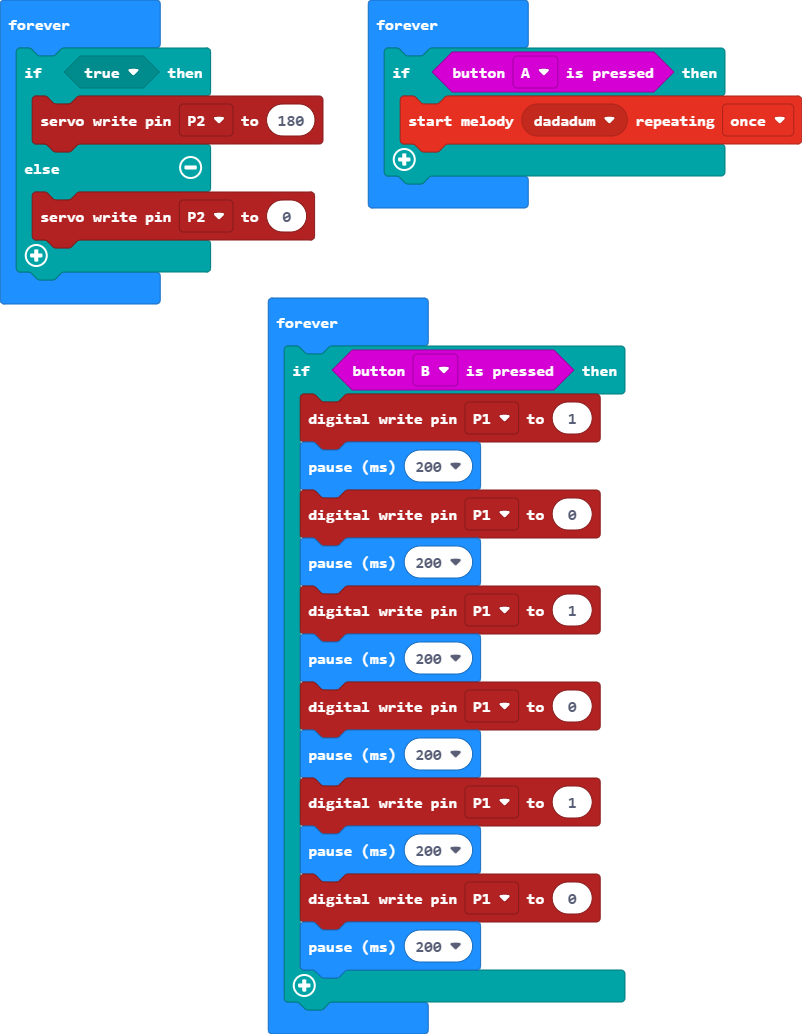
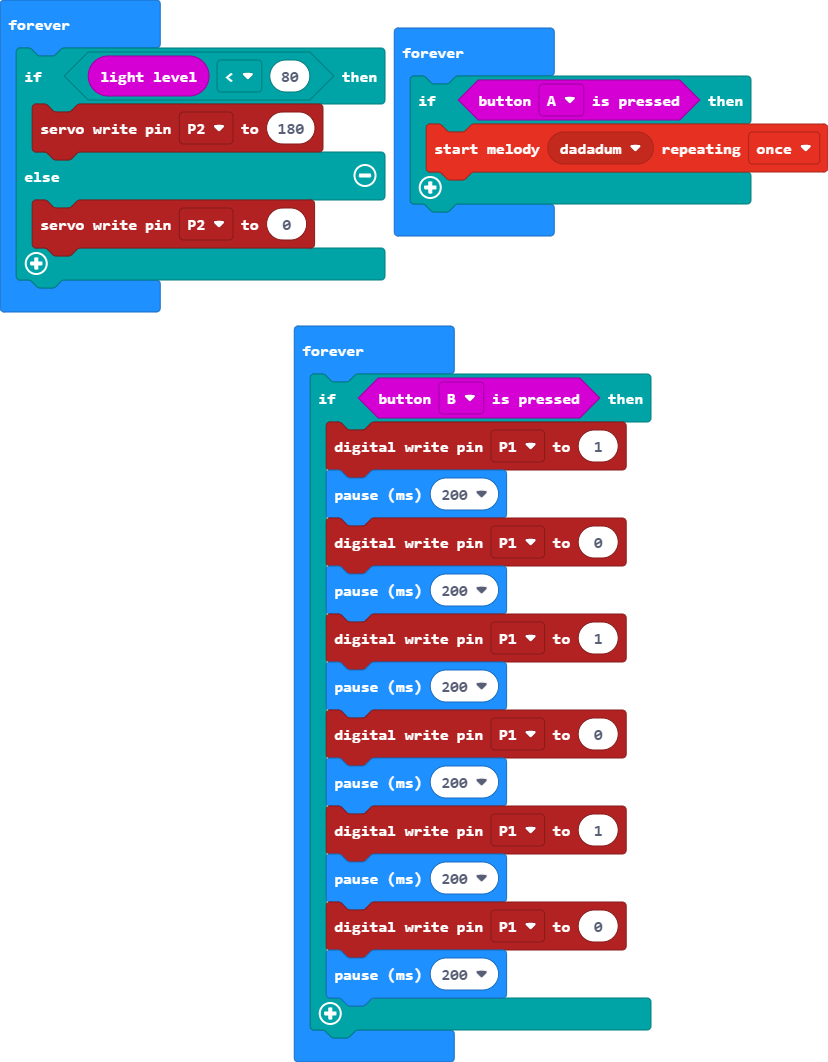
Update main.blocks, main.ts

Changed region(s): [[0.0312, 0.0, 1.0, 1.0], [0.0, 0.0, 0.0935, 0.0309], [0.7793, 0.9284, 0.8105, 0.9594]]

diff --git a/main.ts b/main.ts
@@ -1,5 +1,5 @@
 basic.forever(function () {
-    if (true) {
+    if (input.lightLevel() < 80) {
         pins.servoWritePin(AnalogPin.P2, 180)
     } else {
         pins.servoWritePin(AnalogPin.P2, 0)
